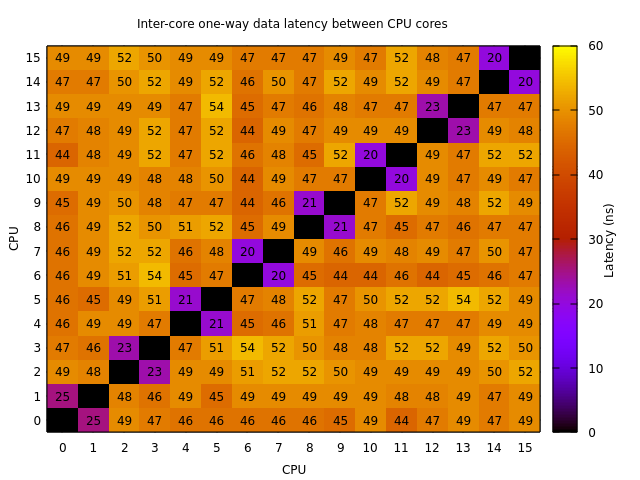
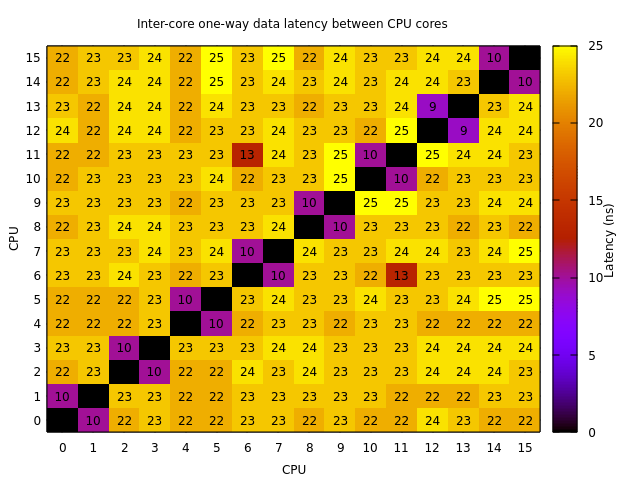
Update c2clat

diff --git a/c2clat.cpp b/c2clat.cpp
@@ -1,10 +1,10 @@
 // © 2020 Erik Rigtorp <erik@rigtorp.se>
 // SPDX-License-Identifier: MIT
-
+// Forked by Bensuperpc <bensuperpc@gmail.com>
 // Measure inter-core one-way data latency
 //
 // Build:
-// g++ -O3 -DNDEBUG c2clat.cpp -o c2clat -pthread
+// g++ -O3 -DNDEBUG -march=native -flto -flto-partition=none c2clat.cpp -o c2clat -pthread
 //
 // Plot results using gnuplot:
 // $ c2clat -p | gnuplot -p
@@ -34,7 +34,9 @@ void pinThread(int cpu) {
 
 int main(int argc, char *argv[]) {
 
-  int nsamples = 1000;
+  const auto nsamples = 4000;
+  const auto samplessize = 100;
+
   bool plot = false;
 
   int opt;
@@ -43,9 +45,9 @@ int main(int argc, char *argv[]) {
     case 'p':
       plot = true;
       break;
-    case 's':
-      nsamples = std::stoi(optarg);
-      break;
+//    case 's':
+//      nsamples = std::stoi(optarg);
+//      break;
     default:
       goto usage;
     }
@@ -54,7 +56,8 @@ int main(int argc, char *argv[]) {
   if (optind != argc) {
   usage:
     std::cerr << "c2clat 1.0.0 © 2020 Erik Rigtorp <erik@rigtorp.se>\n"
-                 "usage: c2clat [-p] [-s number_of_samples]\n"
+                 "c2clat-forked 1.1.0 - 2021 Bensuperpc <bensuperpc@gmail.com>\n"
+                 "usage: c2clat [-p]\n"
                  "\nPlot results using gnuplot:\n"
                  "c2clat -p | gnuplot -p\n";
     exit(1);
@@ -69,7 +72,7 @@ int main(int argc, char *argv[]) {
 
   // enumerate available CPUs
   std::vector<int> cpus;
-  for (int i = 0; i < CPU_SETSIZE; ++i) {
+  for (auto i = 0; i < CPU_SETSIZE; ++i) {
     if (CPU_ISSET(i, &set)) {
       cpus.push_back(i);
     }
@@ -85,8 +88,8 @@ int main(int argc, char *argv[]) {
 
       auto t = std::thread([&] {
         pinThread(cpus[i]);
-        for (int m = 0; m < nsamples; ++m) {
-          for (int n = 0; n < 100; ++n) {
+        for (auto m = 0; m < nsamples; ++m) {
+          for (auto n = 0; n < samplessize; ++n) {
             while (seq1.load(std::memory_order_acquire) != n)
               ;
             seq2.store(n, std::memory_order_release);
@@ -100,7 +103,7 @@ int main(int argc, char *argv[]) {
       for (int m = 0; m < nsamples; ++m) {
         seq1 = seq2 = -1;
         auto ts1 = std::chrono::steady_clock::now();
-        for (int n = 0; n < 100; ++n) {
+        for (auto n = 0; n < samplessize; ++n) {
           seq1.store(n, std::memory_order_release);
           while (seq2.load(std::memory_order_acquire) != n)
             ;
@@ -111,8 +114,8 @@ int main(int argc, char *argv[]) {
 
       t.join();
 
-      data[{i, j}] = rtt / 2 / 100;
-      data[{j, i}] = rtt / 2 / 100;
+      data[{i, j}] = rtt / 4 / samplessize;
+      data[{j, i}] = rtt / 4 / samplessize;
     }
   }
 

diff --git a/README.md b/README.md
@@ -5,22 +5,30 @@ A tool to measure CPU core to core latency (inter-core latency).
 Build:
 
 ```console
-g++ -O3 -DNDEBUG c2clat.cpp -o c2clat -pthread
+g++ -O3 -DNDEBUG -march=native -flto -flto-partition=none c2clat.cpp -o c2clat -pthread
 ```
 
 Example usage:
 
 ```console
 $ ./c2clat 
- CPU    0    1    2    3    4    5    6    7
-   0    0   92   66   62   16   56   54   53
-   1   92    0   50   54   53   14   49   50
-   2   66   50    0   48   51   49   13   48
-   3   62   54   48    0   53   50   48   13
-   4   16   53   51   53    0   53   51   53
-   5   56   14   49   50   53    0   49   50
-   6   54   49   13   48   51   49    0   48
-   7   53   50   48   13   53   50   48    0
+ CPU    0    1    2    3    4    5    6    7    8    9   10   11   12   13   14   15
+   0    0   10   26   24   24   26   25   26   24   24   25   25   23   23   23   24
+   1   10    0   26   26   26   26   24   25   23   23   25   24   24   23   22   24
+   2   26   26    0   10   25   25   26   25   24   25   25   24   24   24   24   25
+   3   24   26   10    0   26   26   25   25   25   25   24   25   23   23   24   24
+   4   24   26   25   26    0   10   26   24   25   18   24   24   23   24   24   24
+   5   26   26   25   26   10    0   24   24   25   25   22   24   24   24   24   25
+   6   25   24   26   25   26   24    0   10   23   24   22   23   22   23   22   21
+   7   26   25   25   25   24   24   10    0   22   23   24   24   23   23   23   22
+   8   24   23   24   25   25   25   23   22    0   10   23   23   22   22   20   21
+   9   24   23   25   25   18   25   24   23   10    0   23   23   22   23   22   23
+  10   25   25   25   24   24   22   22   24   23   23    0   10   21   21   21   21
+  11   25   24   24   25   24   24   23   24   23   23   10    0   21   22   22   23
+  12   23   24   24   23   23   24   22   23   22   22   21   21    0   10   21   21
+  13   23   23   24   23   24   24   23   23   22   23   21   22   10    0   21   22
+  14   23   22   24   24   24   24   22   23   20   22   21   22   21   21    0   10
+  15   24   24   25   24   24   25   21   22   21   23   21   23   21   22   10    0
 ```
 
 Create plot using [gnuplot](http://gnuplot.sourceforge.net/):
